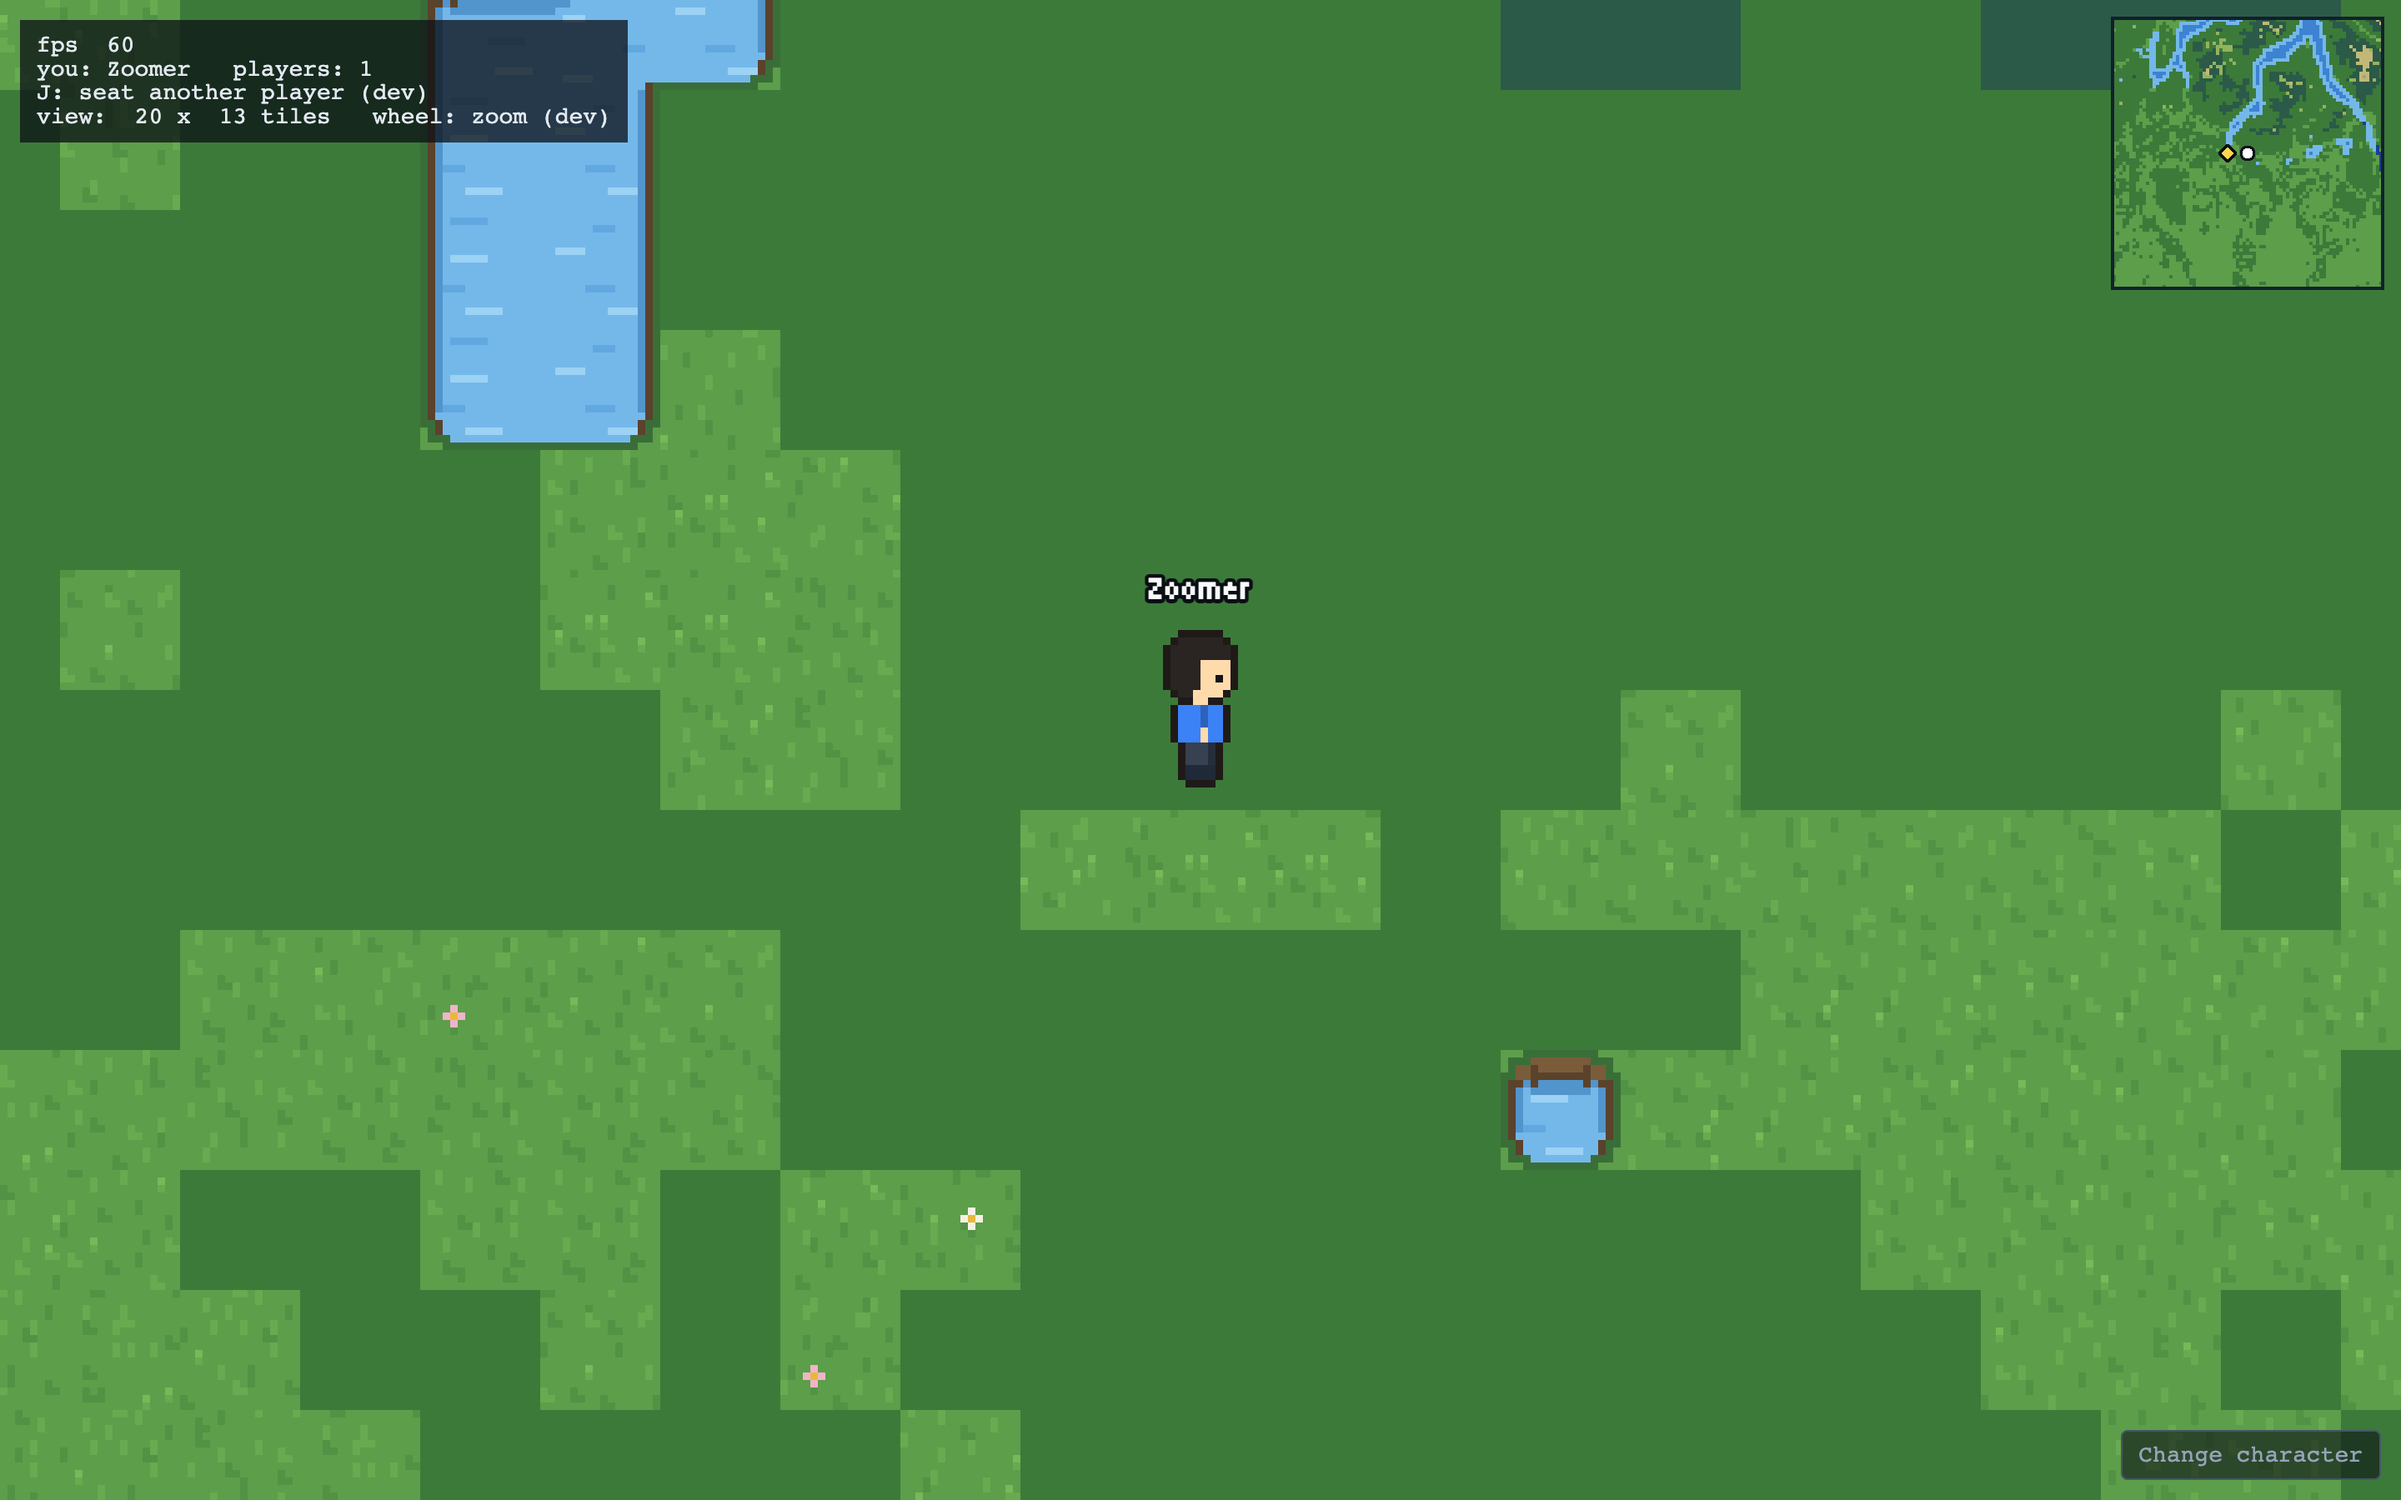
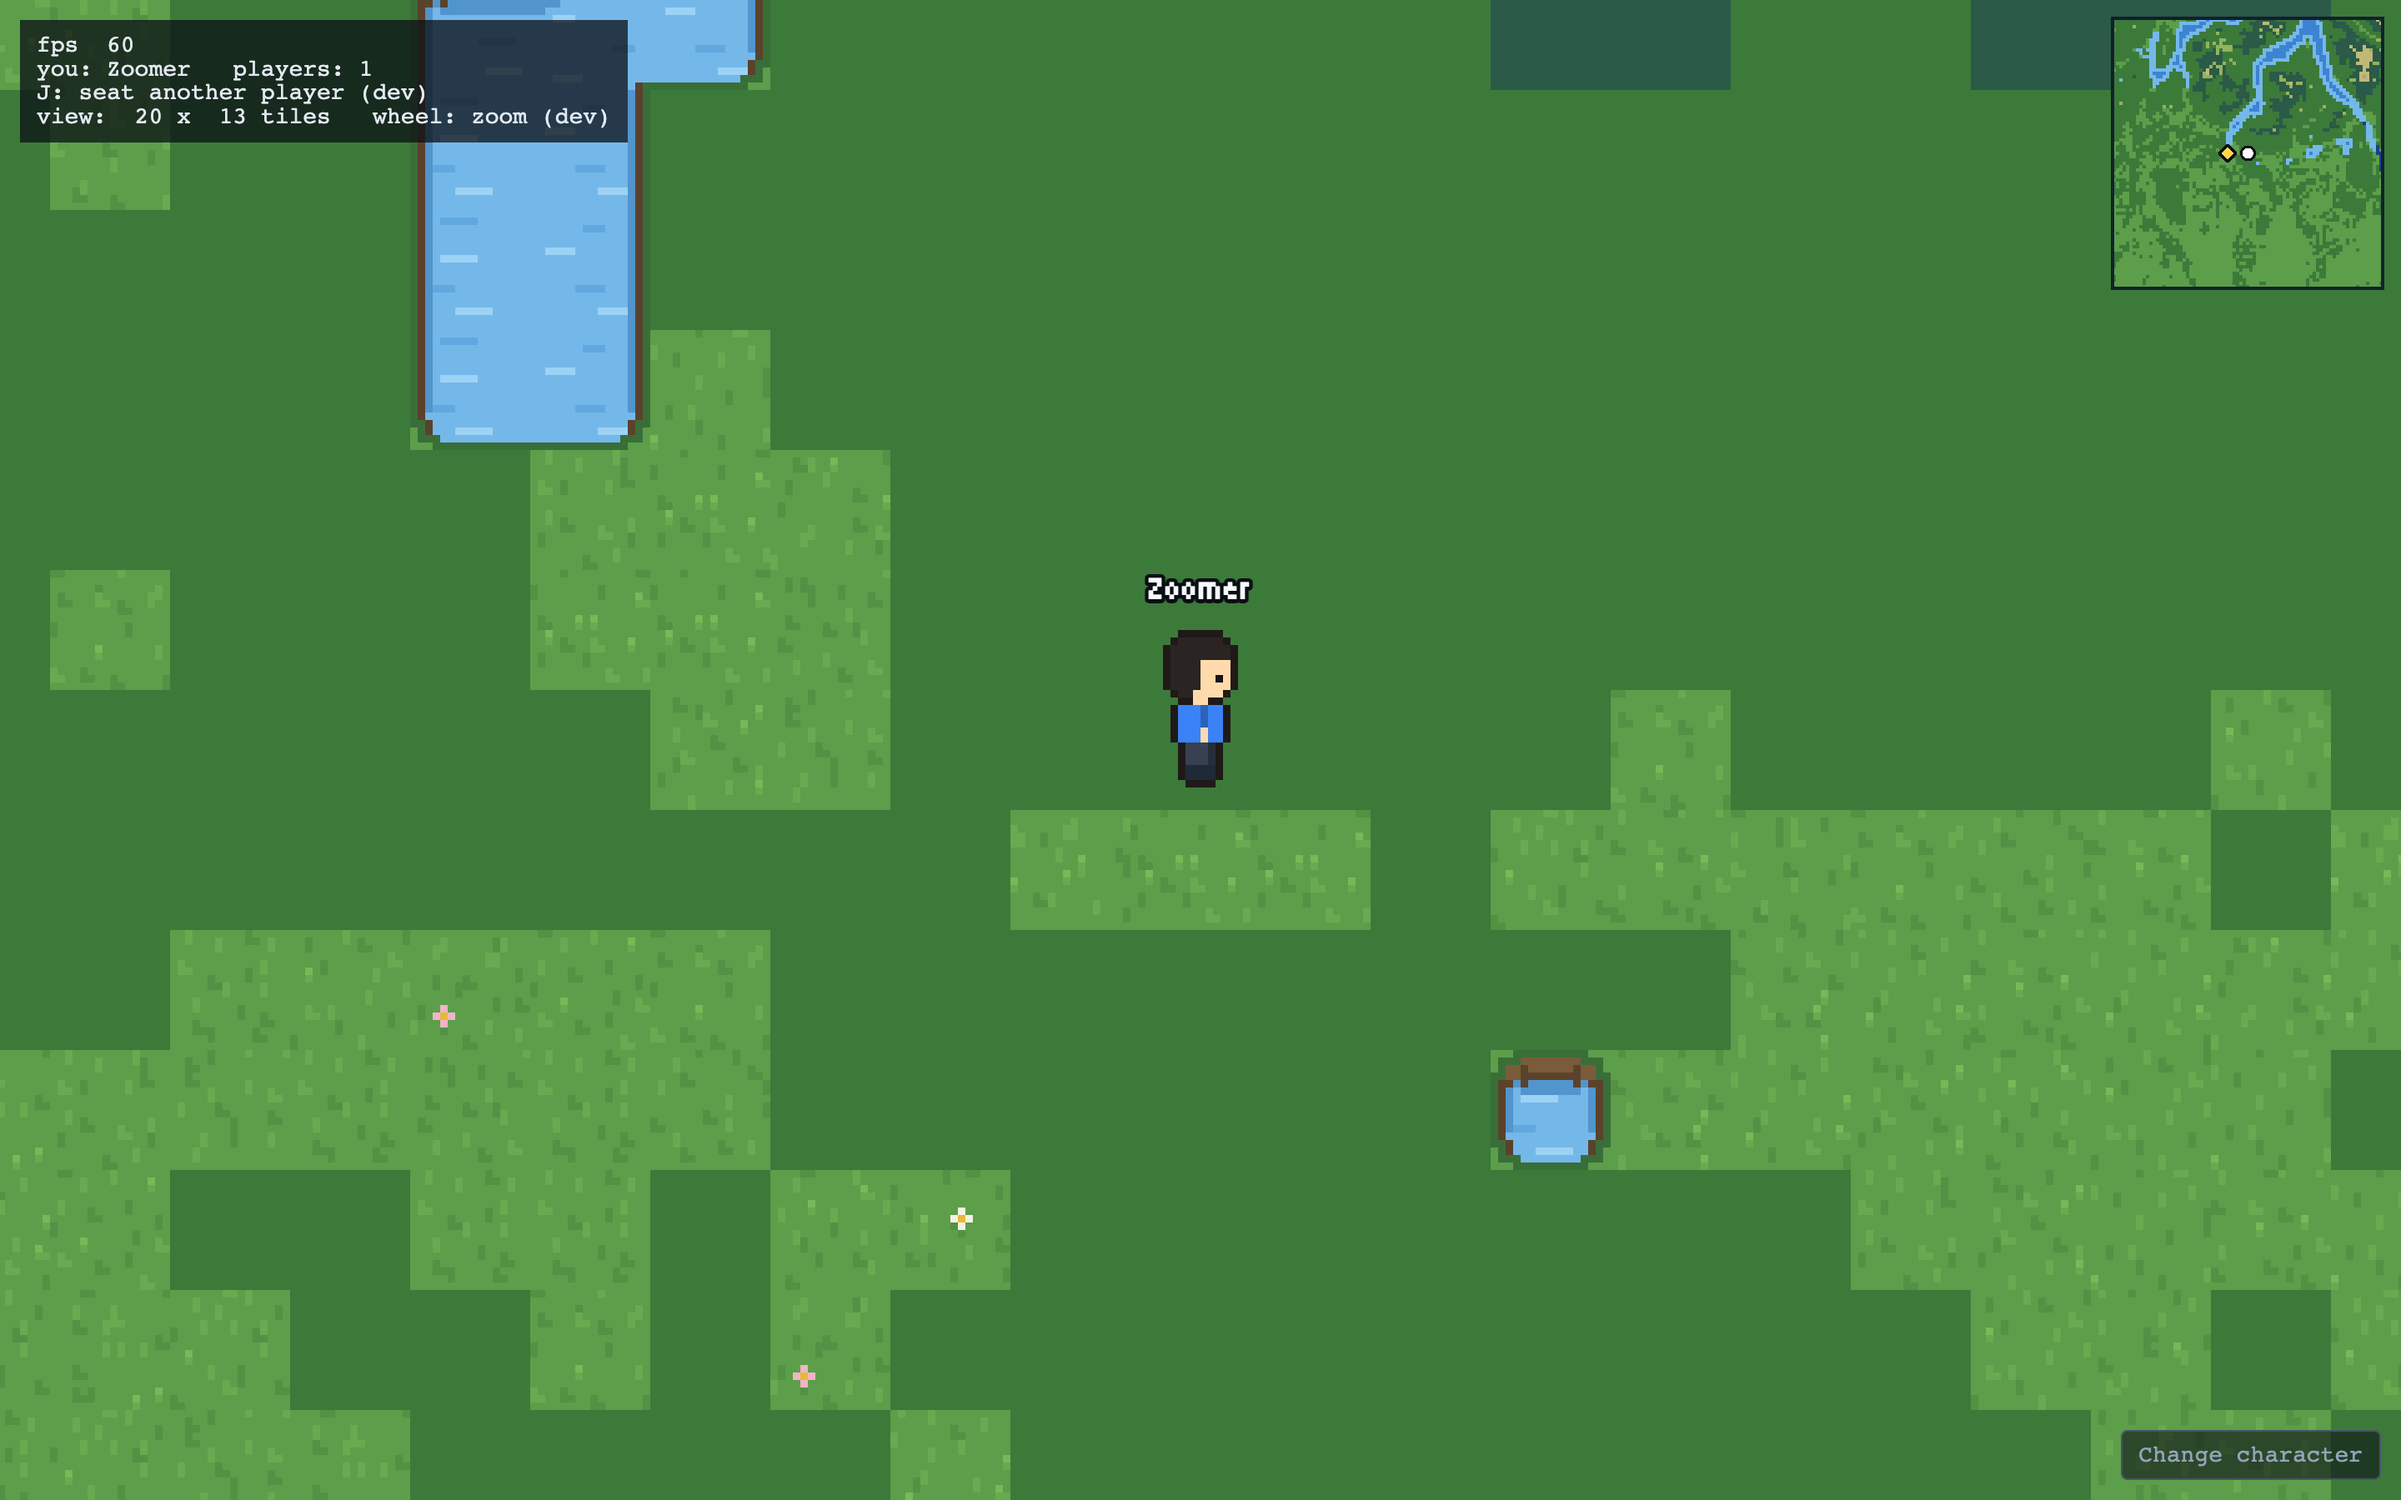
Second review of the wheel zoom (#74): a view a rounding error longer than the map does not move it

diff --git a/packages/client/src/render/camera.ts b/packages/client/src/render/camera.ts
@@ -152,7 +152,8 @@ function snapViewToDevicePixels(scroll: number, size: number, zoom: number): num
  * `zoom`, or the art would straddle two.
  */
 function boundsAlongAxis({ mapStart, mapLength, viewLength, zoom }: { mapStart: number; mapLength: number; viewLength: number; zoom: number }): { start: number; length: number } {
-  if (!(viewLength > mapLength)) return { start: mapStart, length: mapLength };
+  // Longer by a whole device pixel at least: a view that fits the map exactly can come out a rounding error longer, and must not move the map for it.
+  if (!((viewLength - mapLength) * zoom >= 1)) return { start: mapStart, length: mapLength };
   return { start: Math.round((mapStart - (viewLength - mapLength) / 2) * zoom) / zoom, length: viewLength };
 }
 

diff --git a/packages/client/src/render/camera.test.ts b/packages/client/src/render/camera.test.ts
@@ -124,6 +124,11 @@ describe('boundsAlongAxis', () => {
     expect(Math.abs(start - -(1001 / 2 - 320) / 2)).toBeLessThanOrEqual(0.25);
   });
 
+  it('is the map for a view a rounding error longer than it, as the zoom that fits the map exactly can give', () => {
+    const mapLength = 1000 * PIXELS_PER_METRE;
+    expect(boundsAlongAxis({ mapStart: -37 * PIXELS_PER_METRE, mapLength, viewLength: mapLength * (1 + Number.EPSILON), zoom: 1527 / mapLength })).toEqual({ start: -37 * PIXELS_PER_METRE, length: mapLength });
+  });
+
   it('is the map for a view that makes no sense', () => {
     expect(boundsAlongAxis({ mapStart: 0, mapLength: 1000, viewLength: Number.NaN, zoom: 1 })).toEqual({ start: 0, length: 1000 });
   });
